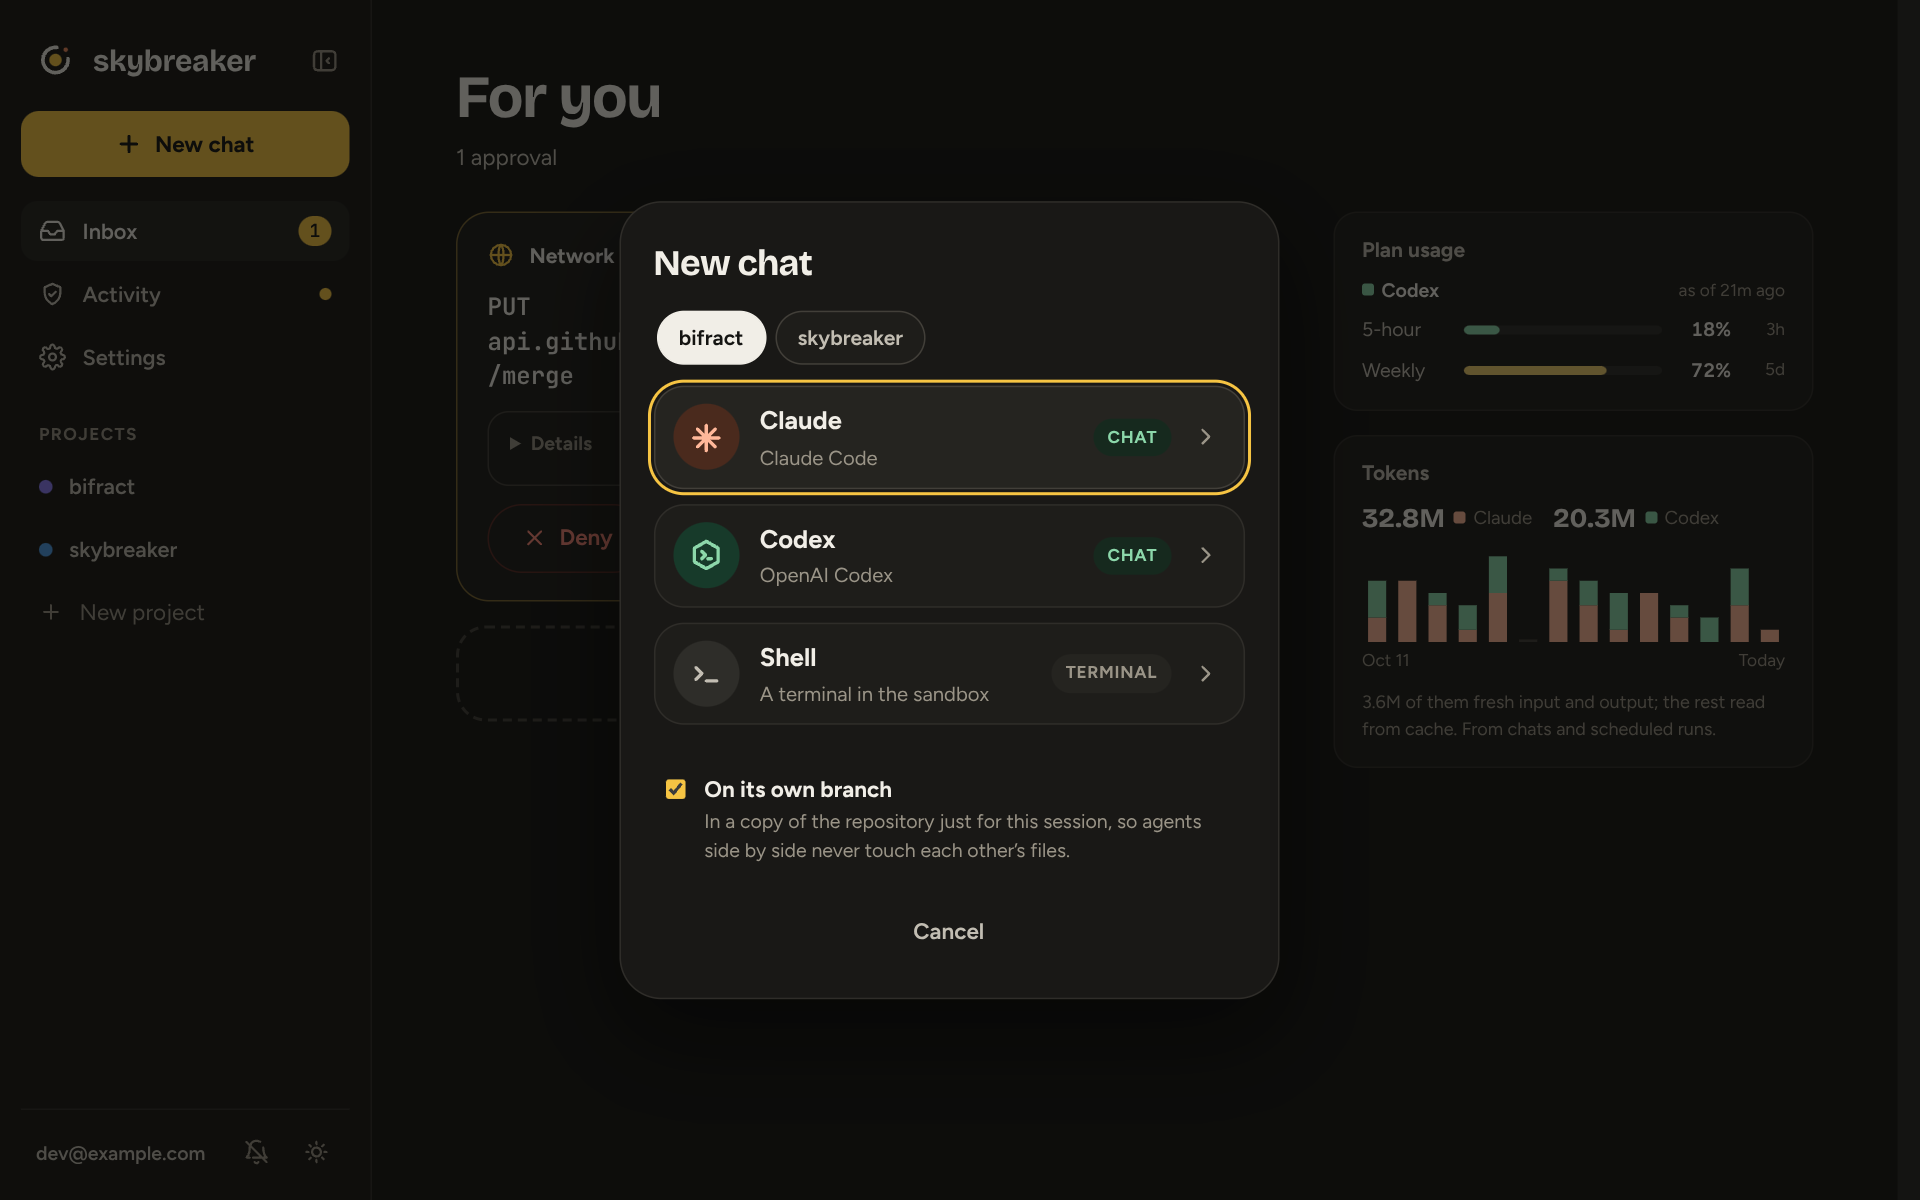
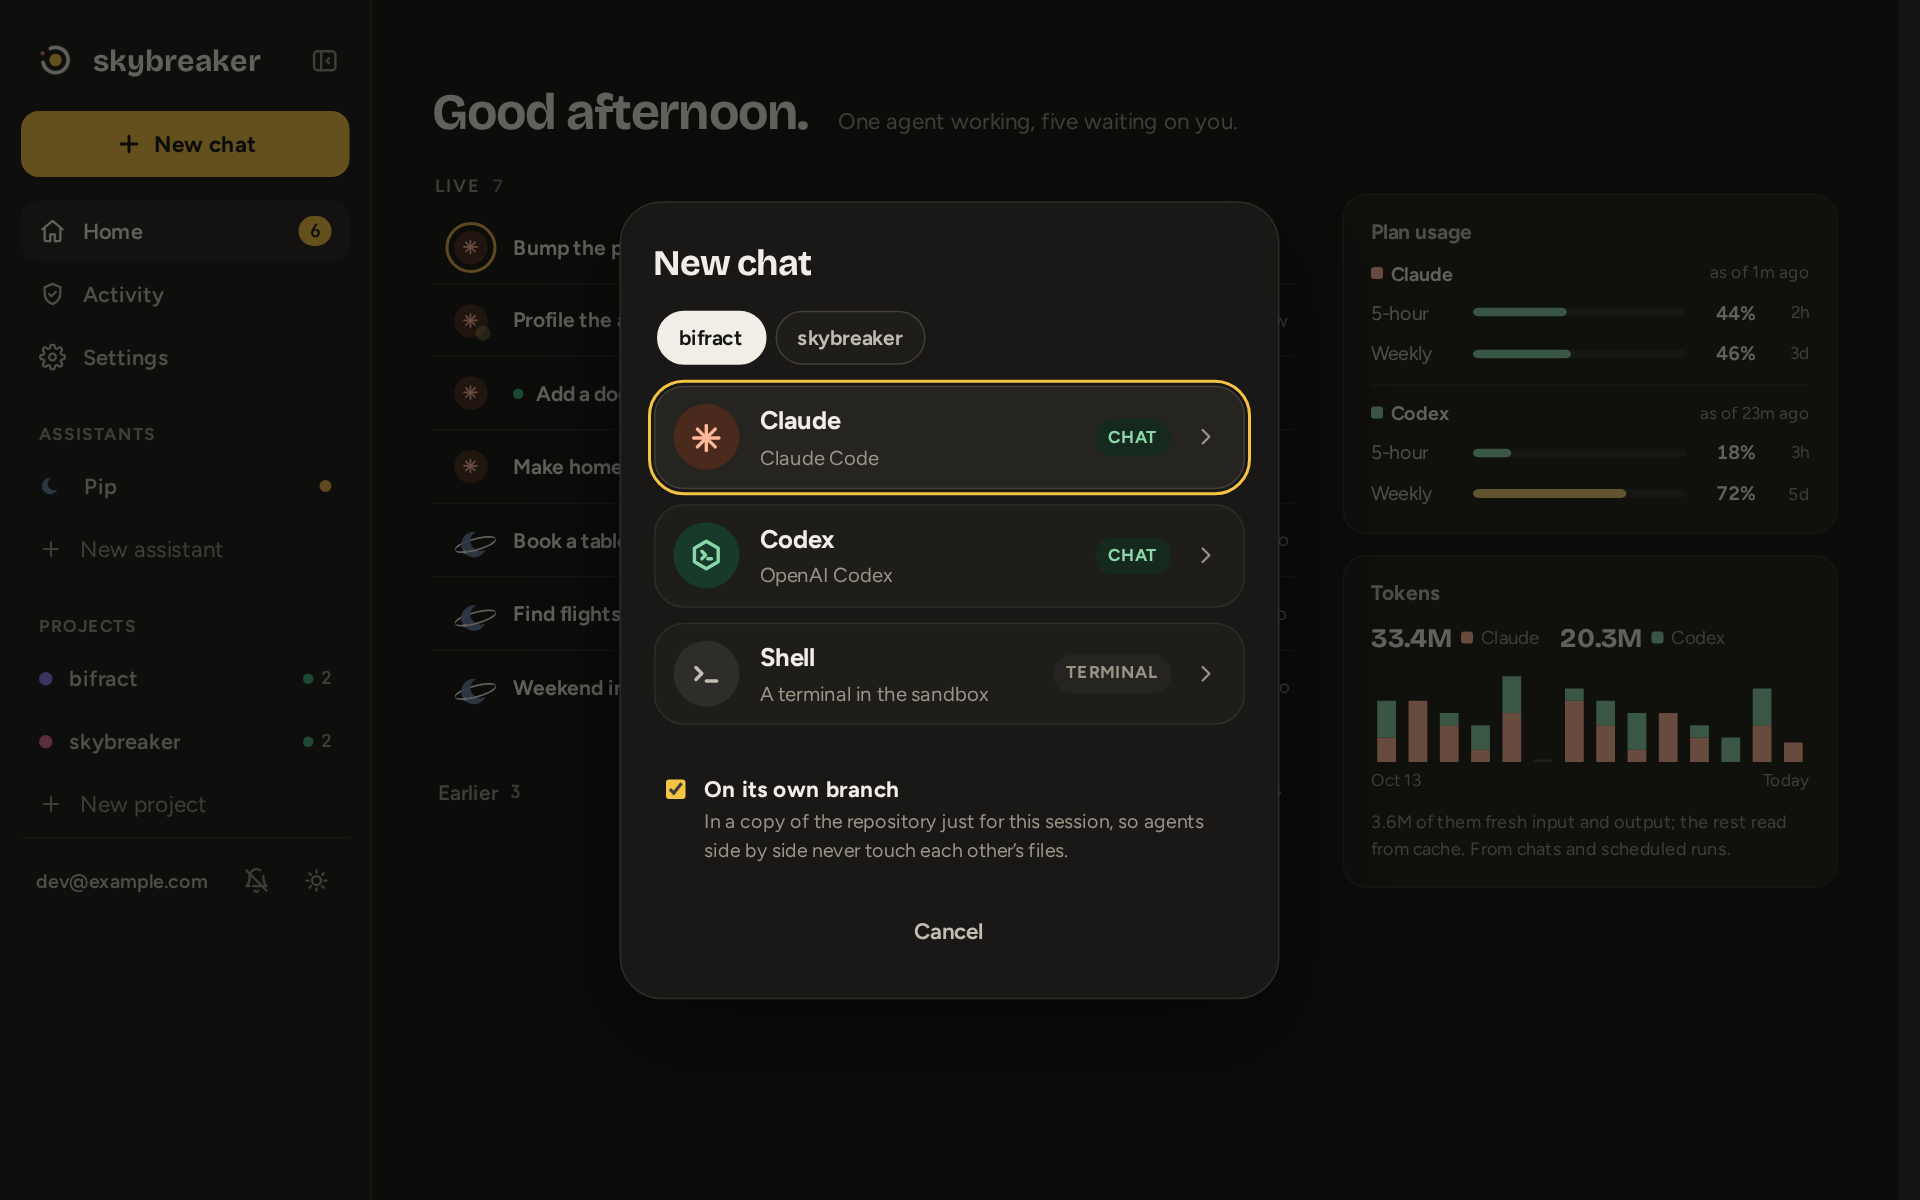
Add assistants guide and retake screenshots
Retake README and getting started shots for the new UI, and add a task-oriented assistants guide.

diff --git a/docs/assistants.md b/docs/assistants.md
@@ -1,0 +1,70 @@
+# Assistants
+
+An assistant is an agent for everything that isn't a repo: your mail, calendar, bookings, research and briefs. It runs Claude, Codex or pi in a sandbox of its own, with the same broker and policy as a coding agent.
+
+## Make one
+
+Click **New assistant** in the sidebar. Give it a name, a shape and a colour, pick its agents, and tick the bundles it may reach. Skybreaker restarts to add it, once no agent is working.
+
+![New assistant: name, mark, agents and access](img/as-1-new.png)
+
+## Choose what it reaches
+
+Click **Access** under its name, or open **Settings → Project access** and pick it. Add bundles or hosts of its own, and make anything that writes `Ask`, so it waits for you. Its browser is held to the same rules.
+
+![Project access for an assistant: bundles, and a host whose GETs are allowed and POSTs asked](img/as-2-access.png)
+
+## Talk to it
+
+Tap the assistant, or **Message** it from the sidebar. You have one conversation, which picks up where you left off. Work that takes a while runs as a **task** in the background and shows as a card, so you can keep talking; open a card to follow it. Routine results arrive as cards too.
+
+![The conversation: two tasks, a routine's result, and a browser sign-in waiting](img/as-3-chat.png)
+
+**Start fresh**, in the ring's menu, clears what the agent holds in mind but keeps its memories. Switch its **preferred** agent under **Look**, and its memory, personality and the conversation so far come along.
+
+## Keep what it learns
+
+It suggests things to remember as you talk. Nothing is kept until you click **Remember**. Edit or forget anything under **Memory**.
+
+![Memory: two suggestions waiting, and what it already remembers](img/as-4-memory.png)
+
+## Schedule work
+
+Under **Routines**, click **Add a routine**, or **Approve** one it suggests. A routine is a schedule and a prompt, such as a weekday morning brief. A change applies when Skybreaker restarts, once no agent is working.
+
+![Routines: a suggested weekly podcast and a weekday morning brief with its last result](img/as-5-routines.png)
+
+Routines and chats share its files, so give each routine its own folder.
+
+## Sign it in to a site
+
+Its browser has logins of its own, which the agent never sees. When a site wants a password, a code or a CAPTCHA, the conversation shows **The browser needs you**. Click **Take over**, sign in on the live page, then click **Done**. It waits until you're finished.
+
+![Take over: you drive its browser live while it waits](img/as-6-takeover.png)
+
+Give it accounts of its own, not yours.
+
+## Also
+
+- **Today** is its brief: what it did lately and anything waiting for you.
+- **Library** keeps what it makes for you (podcasts, reports, PDFs, pages), with your place synced across devices. Audio plays on as you move around the app.
+- **Look** sets its name, mark, agents and personality. Every saved personality is kept, so you can go back. Admins change its agents, and a change applies when Skybreaker restarts.
+
+## How it works
+
+An assistant is a project of kind `assistant`, with no repo. It gets its own sandbox and network, and every request leaves through the broker under its policy.
+
+- **Memory and personality** live on the host, in `assistants.json`, never in the sandbox. They're added to every agent's instructions, so Claude, Codex and pi all read them.
+- **MCP tools** let it `recall`, `propose_memory`, `propose_routine`, `post_update` and `start_task`. A proposal is only a card until you act on it.
+- **The browser** is Chromium in a second container, driven over a pipe, with the profile mounted there alone. The agent gets high-level actions (open, read, click, type, scroll, screenshot, download, take over), not scripts, cookies or DevTools.
+
+See [Architecture](ARCHITECTURE.md#assistants) for the details.
+
+## Security
+
+- **It proposes; you decide.** It can't keep a memory, schedule a routine or change its personality on its own.
+- **It never types secrets.** Password, code and card fields are closed to it and blurred in screenshots, and account security pages are off limits. What you type when you take over goes to the browser only.
+- **Pages it makes can't reach the app.** HTML in its library runs in a sandboxed frame with no network.
+- **A signed-in browser can act as its account.** Rules narrow what it does but don't make an account safe to hand over.
+
+See the [security model](security.md#assistants) for the rest, and [configuration](configuration.md#assistants) to define one in the config file.

diff --git a/docs/using.md b/docs/using.md
@@ -48,23 +48,9 @@ claude mcp add --transport http --scope user skybreaker https://skybreaker.<your
 
 ## Assistants
 
-An assistant is an agent for everything that isn't a repo. Make one with **New assistant**, under Assistants, and give it the bundles it should reach.
+An assistant is an agent for everything that isn't a repo, with memory you approve, scheduled routines and a browser of its own. See [Assistants](assistants.md) to make one and put it to work.
 
-**Chat.** You and the assistant have one conversation, which picks up where you left off. Tap the assistant to open it. Work that takes a while runs as a **task** in the background: it shows as a card in the conversation, so you can keep talking, and you can open a card to follow the task. Routine results show there as cards too. **Start fresh**, in the ring's menu, clears what the agent holds in mind but keeps its memories.
-
-**Look.** Its name, its mark (a shape, a colour and how lively it moves), its agents and its personality. Every saved personality is kept, so you can go back.
-
-**Agents.** Claude, Codex or pi, or several. The **preferred** one answers in its conversation and runs routines that don't name one; switch it any time, and its memory, personality and the conversation so far come along. A code project made in the app has the same choice under **Agents** in its menu. Admins change these, and a change applies when Skybreaker restarts.
-
-**Memory.** It suggests things to remember as you talk. Nothing is kept until you choose **Remember**, and you can edit or forget anything.
-
-**Routines.** Scheduled work, such as a weekday morning brief. Admins add them, or approve one it suggests. A change applies when Skybreaker restarts, once no agent is working. Routines and chats share the assistant's files, so give routines their own folders.
-
-**Today.** Its brief: what needs you, what it did lately, and what it can reach.
-
-**Library.** What it makes for you: podcasts, reports, PDFs and pages. Each item keeps your place, on every device, and shows a dot until you open it. Audio plays in a player that carries on as you move around the app, with chapters, a transcript, speed, a sleep timer and lock-screen controls. Ask it to group a series into a collection ("keep two weeks of briefings, play them at 1.25x") and to notify you when something new arrives. Star an item to keep it whatever its collection keeps.
-
-**Its browser.** It browses with logins of its own, which it never sees. When a site wants a password, a code or a CAPTCHA, it asks you to **Take over**: you drive the page live and it waits. Give it accounts of its own, not yours, and make writes `ask` in its bundles.
+A code project made in the app picks its agents the same way, under **Agents** in its menu. Admins change these, and a change applies when Skybreaker restarts.
 
 ## Terminal
 

diff --git a/README.md b/README.md
@@ -17,6 +17,7 @@
 <p align="center">
   <a href="docs/getting-started.md">Getting started</a> ·
   <a href="docs/using.md">Using it</a> ·
+  <a href="docs/assistants.md">Assistants</a> ·
   <a href="docs/ARCHITECTURE.md">Architecture</a> ·
   <a href="docs/security.md">Security model</a> ·
   <a href="docs/development.md">Development</a>
@@ -29,7 +30,7 @@ Skybreaker runs Claude Code, Codex and pi in a gVisor sandbox per project on a L
 <p align="center">
   <img src="docs/img/screen-desktop.png" alt="A chat on a desktop: the agent's plan, its tool calls and edits, and the result" width="560">
   &nbsp;
-  <img src="docs/img/screen-home.png" alt="Home on a phone: an approval waiting, and chats ordered by what needs you" width="162">
+  <img src="docs/img/screen-home.png" alt="Home on a phone: live chats, one waiting for approval, and a dock of assistants and projects" width="162">
 </p>
 
 ## Features
@@ -66,7 +67,8 @@ Skybreaker is pre-1.0: a release may change the config file, and its notes say w
 ## Docs
 
 - [Getting started](docs/getting-started.md): install and first chat
-- [Using Skybreaker](docs/using.md): chats, previews, boards, assistants, terminal, VS Code
+- [Using Skybreaker](docs/using.md): chats, previews, boards, terminal, VS Code
+- [Assistants](docs/assistants.md): make one, its memory, routines and browser
 - [Configuration](docs/configuration.md): access to APIs, local models, sandbox limits
 - [Upgrading](docs/upgrading.md) and [installing by hand](docs/manual-install.md)
 - [Architecture](docs/ARCHITECTURE.md), [security model](docs/security.md) and [development](docs/development.md)

diff --git a/docs/getting-started.md b/docs/getting-started.md
@@ -73,5 +73,6 @@ sudo TS_AUTHKEY=tskey-auth-... skybreaker-setup install --yes \
 ## Next
 
 - [Using Skybreaker](using.md): chats, branches, previews, boards, terminal and VS Code
+- [Assistants](assistants.md): an agent for everything that isn't a repo
 - [Configuration](configuration.md): give agents access to more APIs, local models, sandbox limits
 - [Upgrading](upgrading.md) and [installing by hand](manual-install.md)
